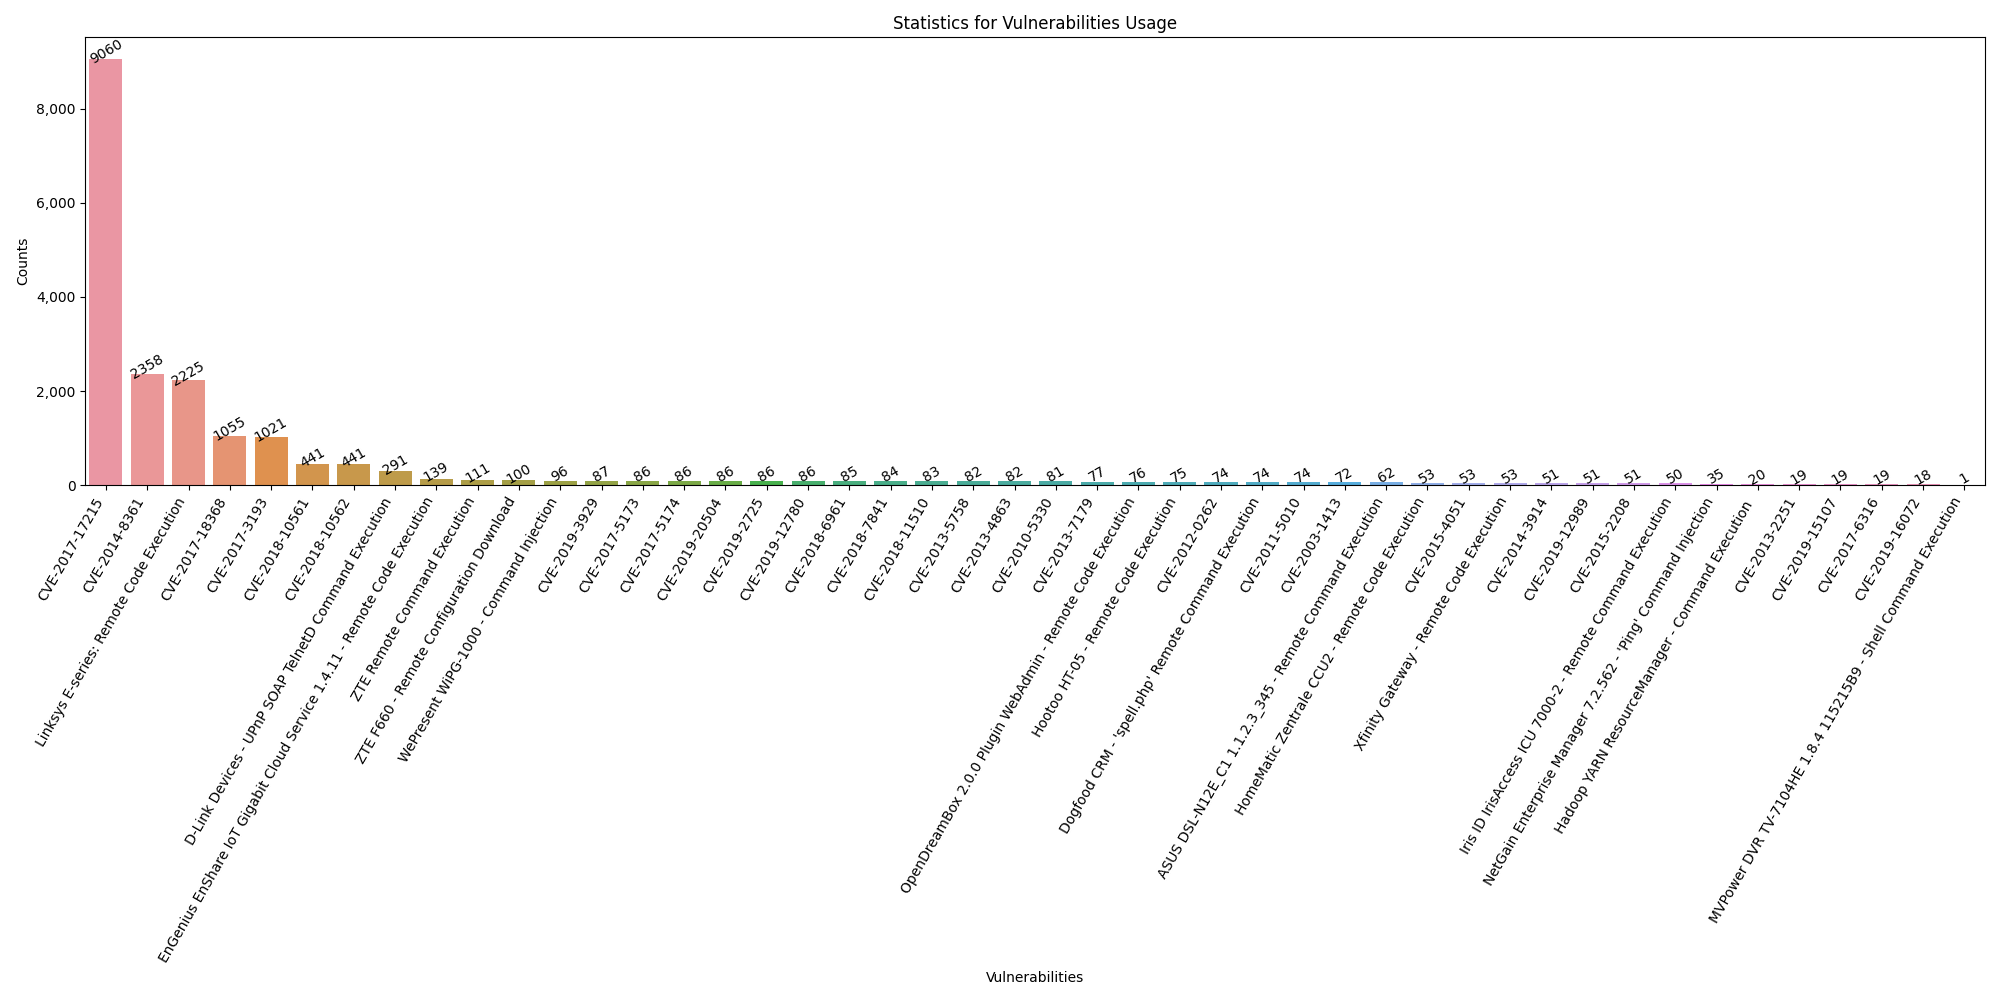
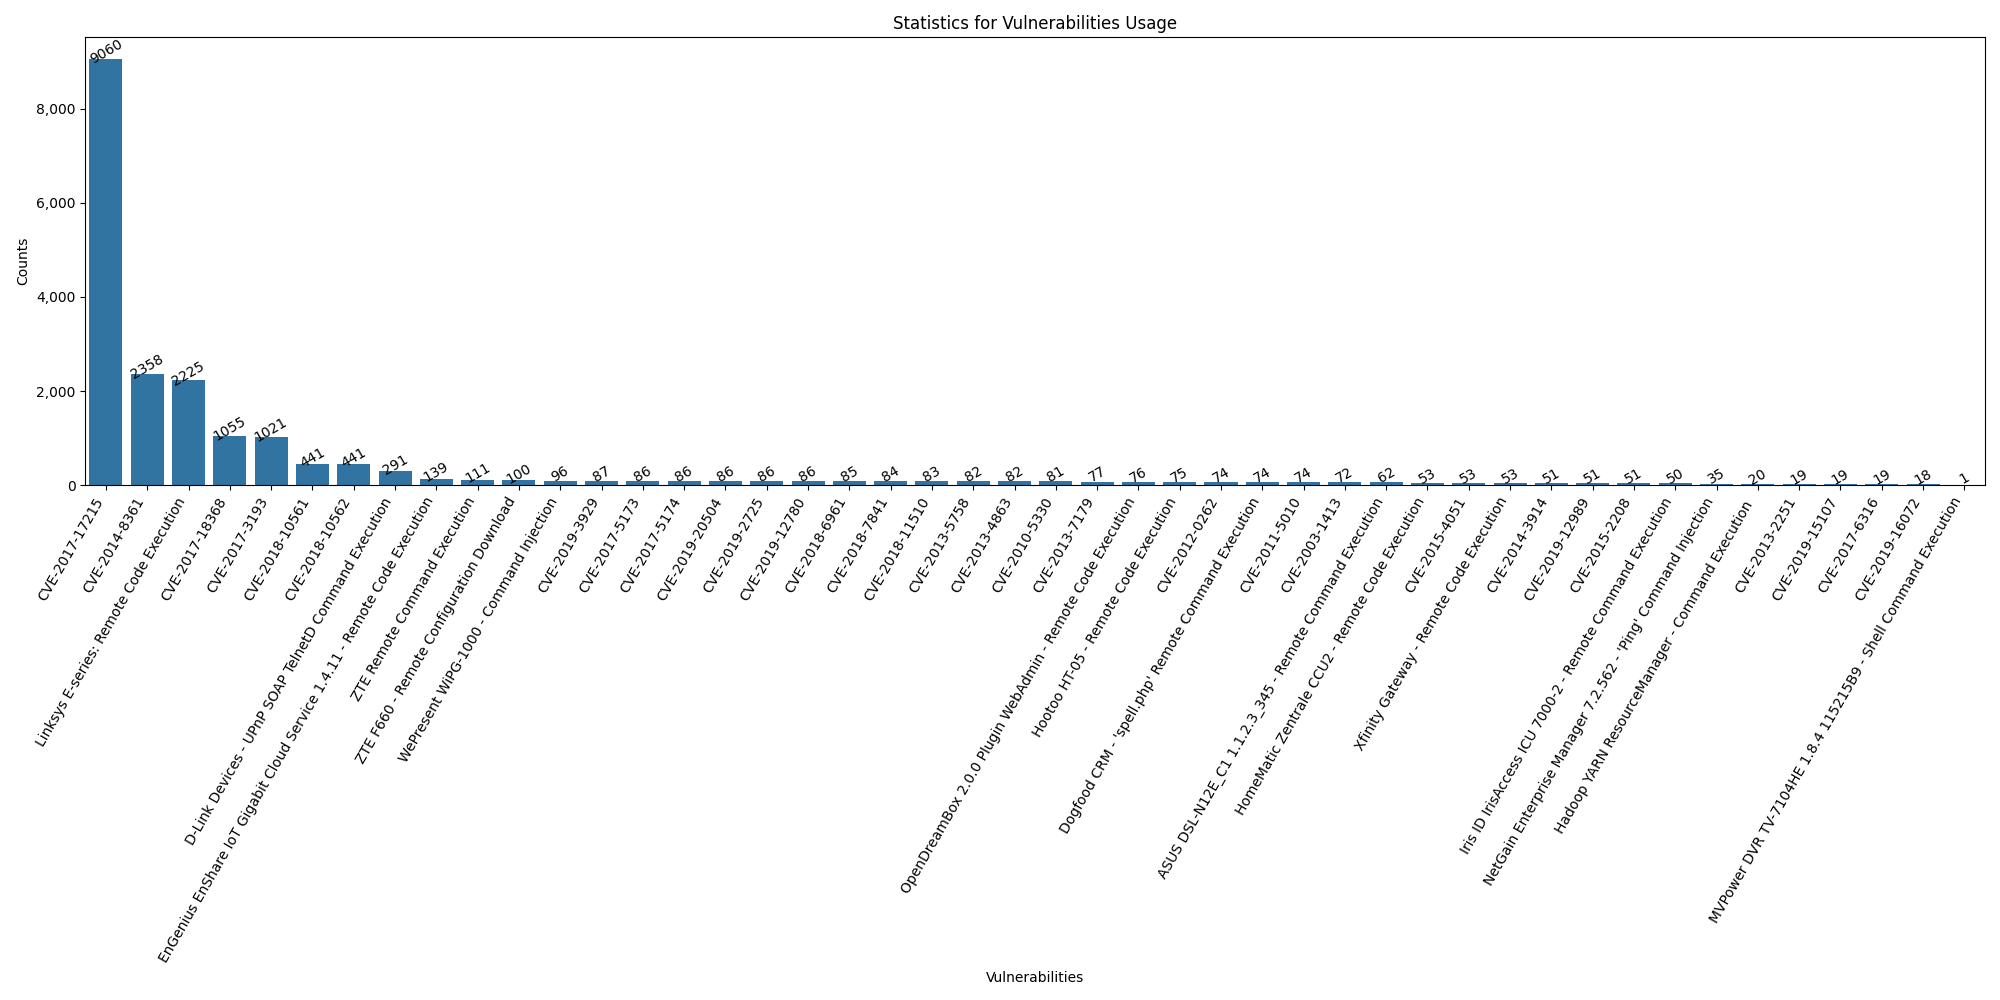
2021年12月8日11点14分

diff --git a/src/statistics.py b/src/statistics.py
@@ -1,7 +1,7 @@
 import os, json, sys
 from collections import Counter
 from typing import OrderedDict
-from plotMethods import plot_dict_data
+from plotMethods import plot_dict_data, plot_pie_dict
 sys.path.append(r"C:\Users\Syuukakou\PycharmProjects\SCIS2022")
 import matplotlib.pyplot as plt
 
@@ -97,7 +97,7 @@ def plot_opcodesPer_Architecures():
         count += 1
 
     # plot
-    fig, axes = plt.subplots(2, int(len(archi_Top10_opcodes)/2), figsize=(30, 15))
+    fig, axes = plt.subplots(5, 2, figsize=(10, 15)) # int(len(archi_Top10_opcodes)/2
     fig.suptitle("Top 50 Frequently Used Opcodes for Each Architecture", x=0.5, y=0.998, fontsize=25)
     for i, ax in enumerate(axes.flatten()):
         if i in plot_data:
@@ -105,9 +105,11 @@ def plot_opcodesPer_Architecures():
             ax.set_title(plot_data[i]["architecture"])
             ax.tick_params('x', labelrotation=90, labelsize=8)
             ax.margins(x=0)
+            plt.ticklabel_format(style='plain', axis='y')
+            ax.set_yticklabels(['{:,}'.format(int(x)) for x in ax.get_yticks().tolist()])
     plt.tight_layout()
     plt.savefig(r"files\resuls\opcodes Statistics on Each Architecture.png", dpi=300)
-    # plt.show()
+    plt.show()
 
 """
 Function Call
@@ -173,8 +175,8 @@ def plot_fcnsPer_Architecures():
         count += 1
 
     # plot
-    fig, axes = plt.subplots(2, int(len(archi_Top10_fcns)/2), figsize=(30, 15))
-    fig.suptitle("Top 50 Frequently Used Function Calls for Each Architecture", x=0.5, y=0.998, fontsize=25)
+    fig, axes = plt.subplots(5, 2, figsize=(10, 15))
+    fig.suptitle("Top 50 Frequently Used Function Calls for Each Architecture", x=0.5, y=0.998, fontsize=20)
     for i, ax in enumerate(axes.flatten()):
         if i in plot_data:
             ax.bar(plot_data[i]["fcns_names"], plot_data[i]["fcns_counts"])
@@ -183,7 +185,32 @@ def plot_fcnsPer_Architecures():
             ax.margins(x=0)
     plt.tight_layout()
     plt.savefig(r"files\resuls\Fcns Statistics on Each Architecture.png", dpi=300)
+    plt.show()
+
+def label_statistics():
+    with open(r"files\formatted_data\hashes_labels.json", "r") as f:
+        data = json.load(f)
+    labels = list(data.values())
+    labels_statis = []
+    for l in labels:
+        if l.startswith("SINGLETON"):
+            labels_statis.append("SINGLETON")
+        else:
+            labels_statis.append(l)
+    labels_counts = dict(sorted(Counter(labels_statis).items(), key=lambda item: item[1], reverse=True))
+    plot_data = {}
+    count = 0
+    for l in labels_counts:
+        if labels_counts[l] > 900:
+            plot_data[l] = labels_counts[l]
+        else:
+            count += labels_counts[l]
+    plot_data["Others"] = count
+    # print(plot_data)
+    plot_pie_dict(plot_data, r"files\resuls\statistics\Label Statistics.png")
+    # plt.bar(list(labels_counts.keys()), list(labels_counts.values()))
     # plt.show()
+    
 
 
 if __name__ == "__main__":
@@ -202,4 +229,5 @@ if __name__ == "__main__":
     Fcns
     """
     # plot_Top_fcns_Statistics()
-    plot_fcnsPer_Architecures()
+    # plot_fcnsPer_Architecures()
+    # label_statistics()

diff --git a/src/cve_relationship.py b/src/cve_relationship.py
@@ -42,7 +42,8 @@ def plot_dict_data(sources, save_path, title, xlabel, ylabel, fig_w, fig_h, rota
     # Width, height in inches
     plt.figure(figsize=(fig_w, fig_h))
     # sns.set_style("whitegrid")
-    ax = sns.barplot(x=x_data, y=y_data)
+    ax = sns.barplot(x=x_data, y=y_data, color="#1f77b4")
+
     ax.set(xlabel=xlabel, ylabel=ylabel)
     ax.set_title(title)
     # plt.xticks(rotation=rotation)
@@ -129,7 +130,7 @@ def cve_usage_Statistics():
         cves.extend(cve_usage[h])
     cves_counts = dict(sorted(Counter(cves).items(), key=lambda item: item[1], reverse=True))
     # plot data
-    plot_dict_data(cves_counts, r"files\resuls\Vulnerabilities Usage Statistics", "Statistics for Vulnerabilities Usage", "Vulnerabilities", "Counts", 20, 10, rotation=60, show_Barlabel=True, wrap_xticklabels=False)
+    plot_dict_data(cves_counts, r"files\resuls\statistics\Vulnerabilities Usage Statistics.png", "Statistics for Vulnerabilities Usage", "Vulnerabilities", "Counts", 20, 10, rotation=60, show_Barlabel=True, wrap_xticklabels=False)
 
 
 def cve_architecture_Relationship():
@@ -172,7 +173,7 @@ def cve_architecture_Relationship():
         CVE_counts.append(item[2]/5)
         CVE_colorType.append(item[3])
     plt.figure(figsize=(15, 15))
-    plt.scatter(Architectures, CVE_names, s=CVE_counts, c=CVE_colorType)
+    plt.scatter(Architectures, CVE_names, s=CVE_counts, alpha=0.3, edgecolors="black")
     plt.xticks(fontsize=20, rotation=30)
     plt.yticks(fontsize=10)
     plt.tight_layout()

diff --git a/src/plotMethods.py b/src/plotMethods.py
@@ -87,10 +87,15 @@ def plot_dict_data_DoubleBar(sourcedata, save_path, title, xlabel, ylabel, fig_w
         plt.show()
 
 
-def plot_pie_dict(dict_data):
+def plot_pie_dict(dict_data, save_path):
     data = list(dict_data.values())
     labels = list(dict_data.keys())
 
     colors = sns.color_palette("pastel")
-    plt.pie(data, labels=labels, colors=colors)
+    plt.pie(data, labels=labels, colors=colors, autopct='%1.0f%%')
+    plt.savefig(save_path)
     plt.show()
+
+"""
+vaddr=0x00000040 paddr=0x00000040 ord=011 fwd=NONE sz=11 bind=GLOBAL type=FUNC name=int_cmp
+"""

diff --git a/src/test.py b/src/test.py
@@ -1,0 +1,13 @@
+import json
+
+def test():
+    with open(r"files\formatted_data\cve_usage.json", "r") as f:
+        data = json.load(f)
+    count = 0
+    for h in data:
+        if len(data[h]) != 0:
+            count += 1
+    print(count)
+
+if __name__ == "__main__":
+    test()

diff --git a/README.md b/README.md
@@ -3,10 +3,9 @@
 # SCIS2022
 
 ## ToDo
-- [ ] 提取每个样本的标签 --> 通过Documents里的dataset文件夹
-- [ ] 绘制cve和label之间的graph
-- [ ] 分析cve和label之间的graph
-- [ ] 分析cve和architecture之间的graph 
+
+- [ ] ~~分析cve和label之间的graph~~
+
 
 ## Done
 - [x] 1. 架构信息统计
@@ -16,3 +15,6 @@
     - [x] CVE和架构之间的关系图、统计图 
     - [x] 样本之间的CVE关系 -
        - [x] 是不是又很多样本会共用同一个CVE，或者一个样本会使用多个CVE
+- [x] 绘制cve和label之间的统计图
+- [x] 分析cve和architecture之间的统计图
+- [x] 提取每个样本的标签 --> 通过Documents里的dataset文件夹
